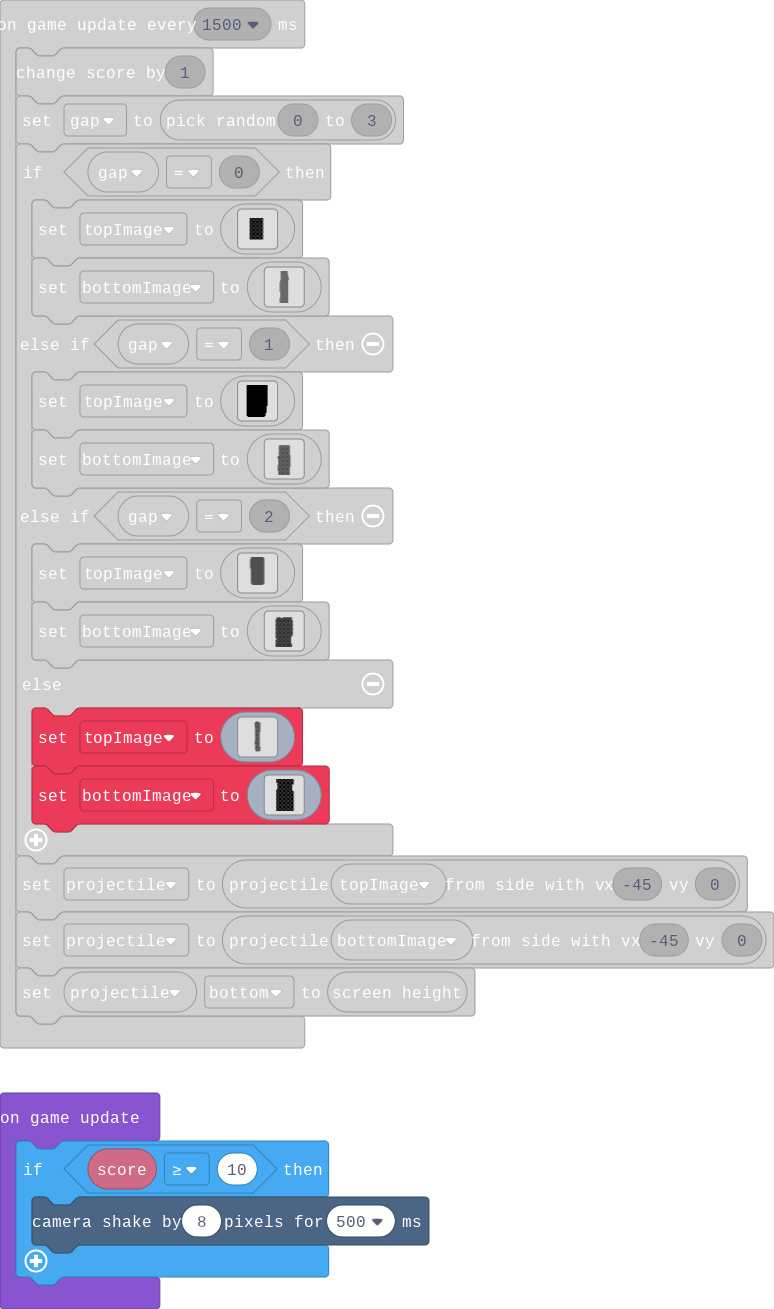
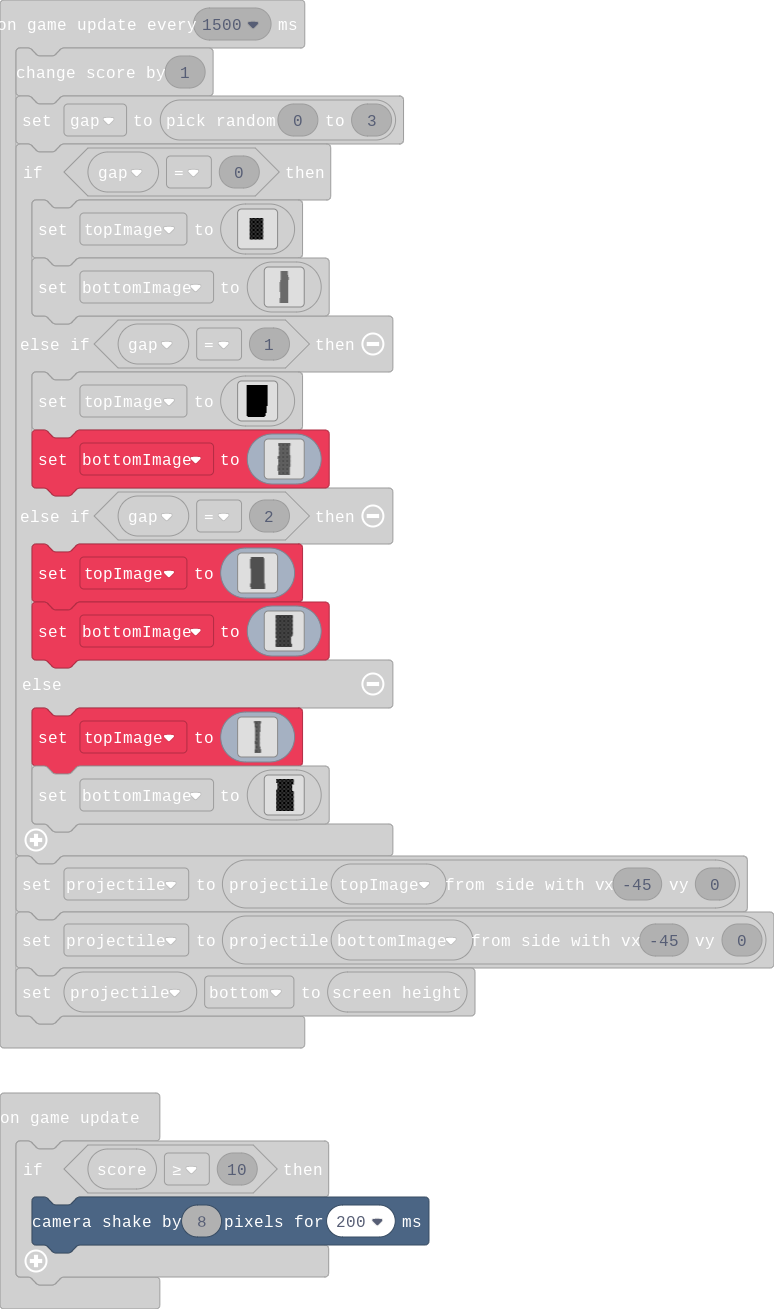
Update main.blocks, main.ts

Changed region(s): [[0.031, 0.3056, 0.4341, 0.5195], [0.0, 0.8251, 0.4341, 1.0], [0.031, 0.5806, 0.4341, 0.6417]]

diff --git a/main.ts b/main.ts
@@ -275,11 +275,11 @@ game.onUpdateInterval(1500, function () {
 . . f f f f f f f f f f f f f f f f f . . . . . 
 `
         bottomImage = img`
-. . . . . . . . . . . . . . . . . . . . . . . . 
-. . . . . . . . . . . . . . . . . . . . . . . . 
-. . . . . . . . . . . . . . . . . . . . . . . . 
-. . . . . . . . . . . . . . . . . . . . . . . . 
-. . . f f f f f f f f f f f f f f f f f f f . . 
+. . f f f f f f f f f f f f f f f f f f f f f . 
+. . f f f f f f f f f f f f f f f f f f f f f . 
+. . f f f f f f f f f f f f f f f f f f f f f . 
+. . f f f f f f f f f f f f f f f f f f f f f . 
+. . f f f f f f f f f f f f f f f f f f f f f . 
 . . . f f f f f f f f f f f f f f f f f f f . . 
 . . . f f f f f f f f f f f f f f f f f f f . . 
 . . . f f f f f f f f f f f f f f f f f f f . . 
@@ -374,23 +374,23 @@ game.onUpdateInterval(1500, function () {
 . . f f f f f f f f f f f f f f f f f f f f . . 
 . . f f f f f f f f f f f f f f f f f f f f . . 
 . . f f f f f f f f f f f f f f f f f f f f . . 
-. . . . f f f f f f f f f f f f f f f f f f . . 
-. . . . f f f f f f f f f f f f f f f . . . . . 
-. . . . . . . . . . . . . . . . . . . . . . . . 
-. . . . . . . . . . . . . . . . . . . . . . . . 
-. . . . . . . . . . . . . . . . . . . . . . . . 
-. . . . . . . . . . . . . . . . . . . . . . . . 
-. . . . . . . . . . . . . . . . . . . . . . . . 
-. . . . . . . . . . . . . . . . . . . . . . . . 
+. f f f f f f f f f f f f f f f f f f f f f f . 
+. f f f f f f f f f f f f f f f f f f f f f f . 
+. f f f f f f f f f f f f f f f f f f f f f f . 
+. f f f f f f f f f f f f f f f f f f f f f f . 
+. f f f f f f f f f f f f f f f f f f f f f f . 
+. . f f f f f f f f f f f f f f f f f f f f f . 
+. . f f f f f f f f f f f f f f f f f f f f f . 
+. . f f f f f f f f f f f f f f f f f f f f f . 
 `
         bottomImage = img`
-. . . . . . . . . . . . . . . . . . . . . . . . 
-. . . . . . . . . . . . . . . . . . . . . . . . 
-. . . . . . . . . . . . . . . . . . . . . . . . 
-. . . f f f f f . . . f f f f f f f f f f f . . 
-. . . f f f f f f f f f f f f f f f f f f f . . 
-. . f f f f f f f f f f f f f f f f f f f f . . 
-. . f f f f f f f f f f f f f f f f f f f f . . 
+. . f f f f f f f f f f f f f f f f f f f f f . 
+. . f f f f f f f f f f f f f f f f f f f f f . 
+. . f f f f f f f f f f f f f f f f f f f f f . 
+. . f f f f f f f f f f f f f f f f f f f f f . 
+. . f f f f f f f f f f f f f f f f f f f f f . 
+. . f f f f f f f f f f f f f f f f f f f f f . 
+. . f f f f f f f f f f f f f f f f f f f f f . 
 . . f f f f f f f f f f f f f f f f f f f f f . 
 . . f f f f f f f f f f f f f f f f f f f f f . 
 . . f f f f f f f f f f f f f f f f f f f f f . 
@@ -427,10 +427,10 @@ game.onUpdateInterval(1500, function () {
 `
     } else {
         topImage = img`
-. . . . . . . . . . . . . . . . . . . . . . . . 
-. . . . . . . . . f f f f f . . . . . . . . . . 
-. . . . . . . . f f f f f f f f . . . . . . . . 
-. . . . . . . f f f f f f f f f f . . . . . . . 
+. . . . . . f f f f f f f f f f f f . . . . . . 
+. . . . . . f f f f f f f f f f f f . . . . . . 
+. . . . . . f f f f f f f f f f f f . . . . . . 
+. . . . . . f f f f f f f f f f f f . . . . . . 
 . . . . . . . f f f f f f f f f f . . . . . . . 
 . . . . . . . f f f f f f f f f f . . . . . . . 
 . . . . . . . f f f f f f f f f f . . . . . . . 
@@ -476,13 +476,13 @@ game.onUpdateInterval(1500, function () {
 . . . . . . . . f f f f f f f f f . . . . . . . 
 . . . . . . . . f f f f f f f f f . . . . . . . 
 . . . . . . . . f f f f f f f f f . . . . . . . 
-. . . . . . . . f f f f f f f f f . . . . . . . 
-. . . . . . . . f f f f f f f f f . . . . . . . 
-. . . . . . . . . f f f f f f f f . . . . . . . 
-. . . . . . . . . f f f f f f f . . . . . . . . 
-. . . . . . . . . . . . . . . . . . . . . . . . 
-. . . . . . . . . . . . . . . . . . . . . . . . 
-. . . . . . . . . . . . . . . . . . . . . . . . 
+. . . . . . . . f f f f f f f f f f . . . . . . 
+. . . . . . . f f f f f f f f f f f . . . . . . 
+. . . . . . . f f f f f f f f f f f . . . . . . 
+. . . . . . . f f f f f f f f f f f . . . . . . 
+. . . . . . . f f f f f f f f f f f . . . . . . 
+. . . . . . . f f f f f f f f f f f . . . . . . 
+. . . . . . . f f f f f f f f f f f . . . . . . 
 `
         bottomImage = img`
 . . . . . . f f f f f f f f f f f f f . . . . . 
@@ -517,6 +517,6 @@ game.onUpdateInterval(1500, function () {
 })
 game.onUpdate(function () {
     if (info.score() >= 10) {
-        scene.cameraShake(8, 500)
+        scene.cameraShake(8, 200)
     }
 })
